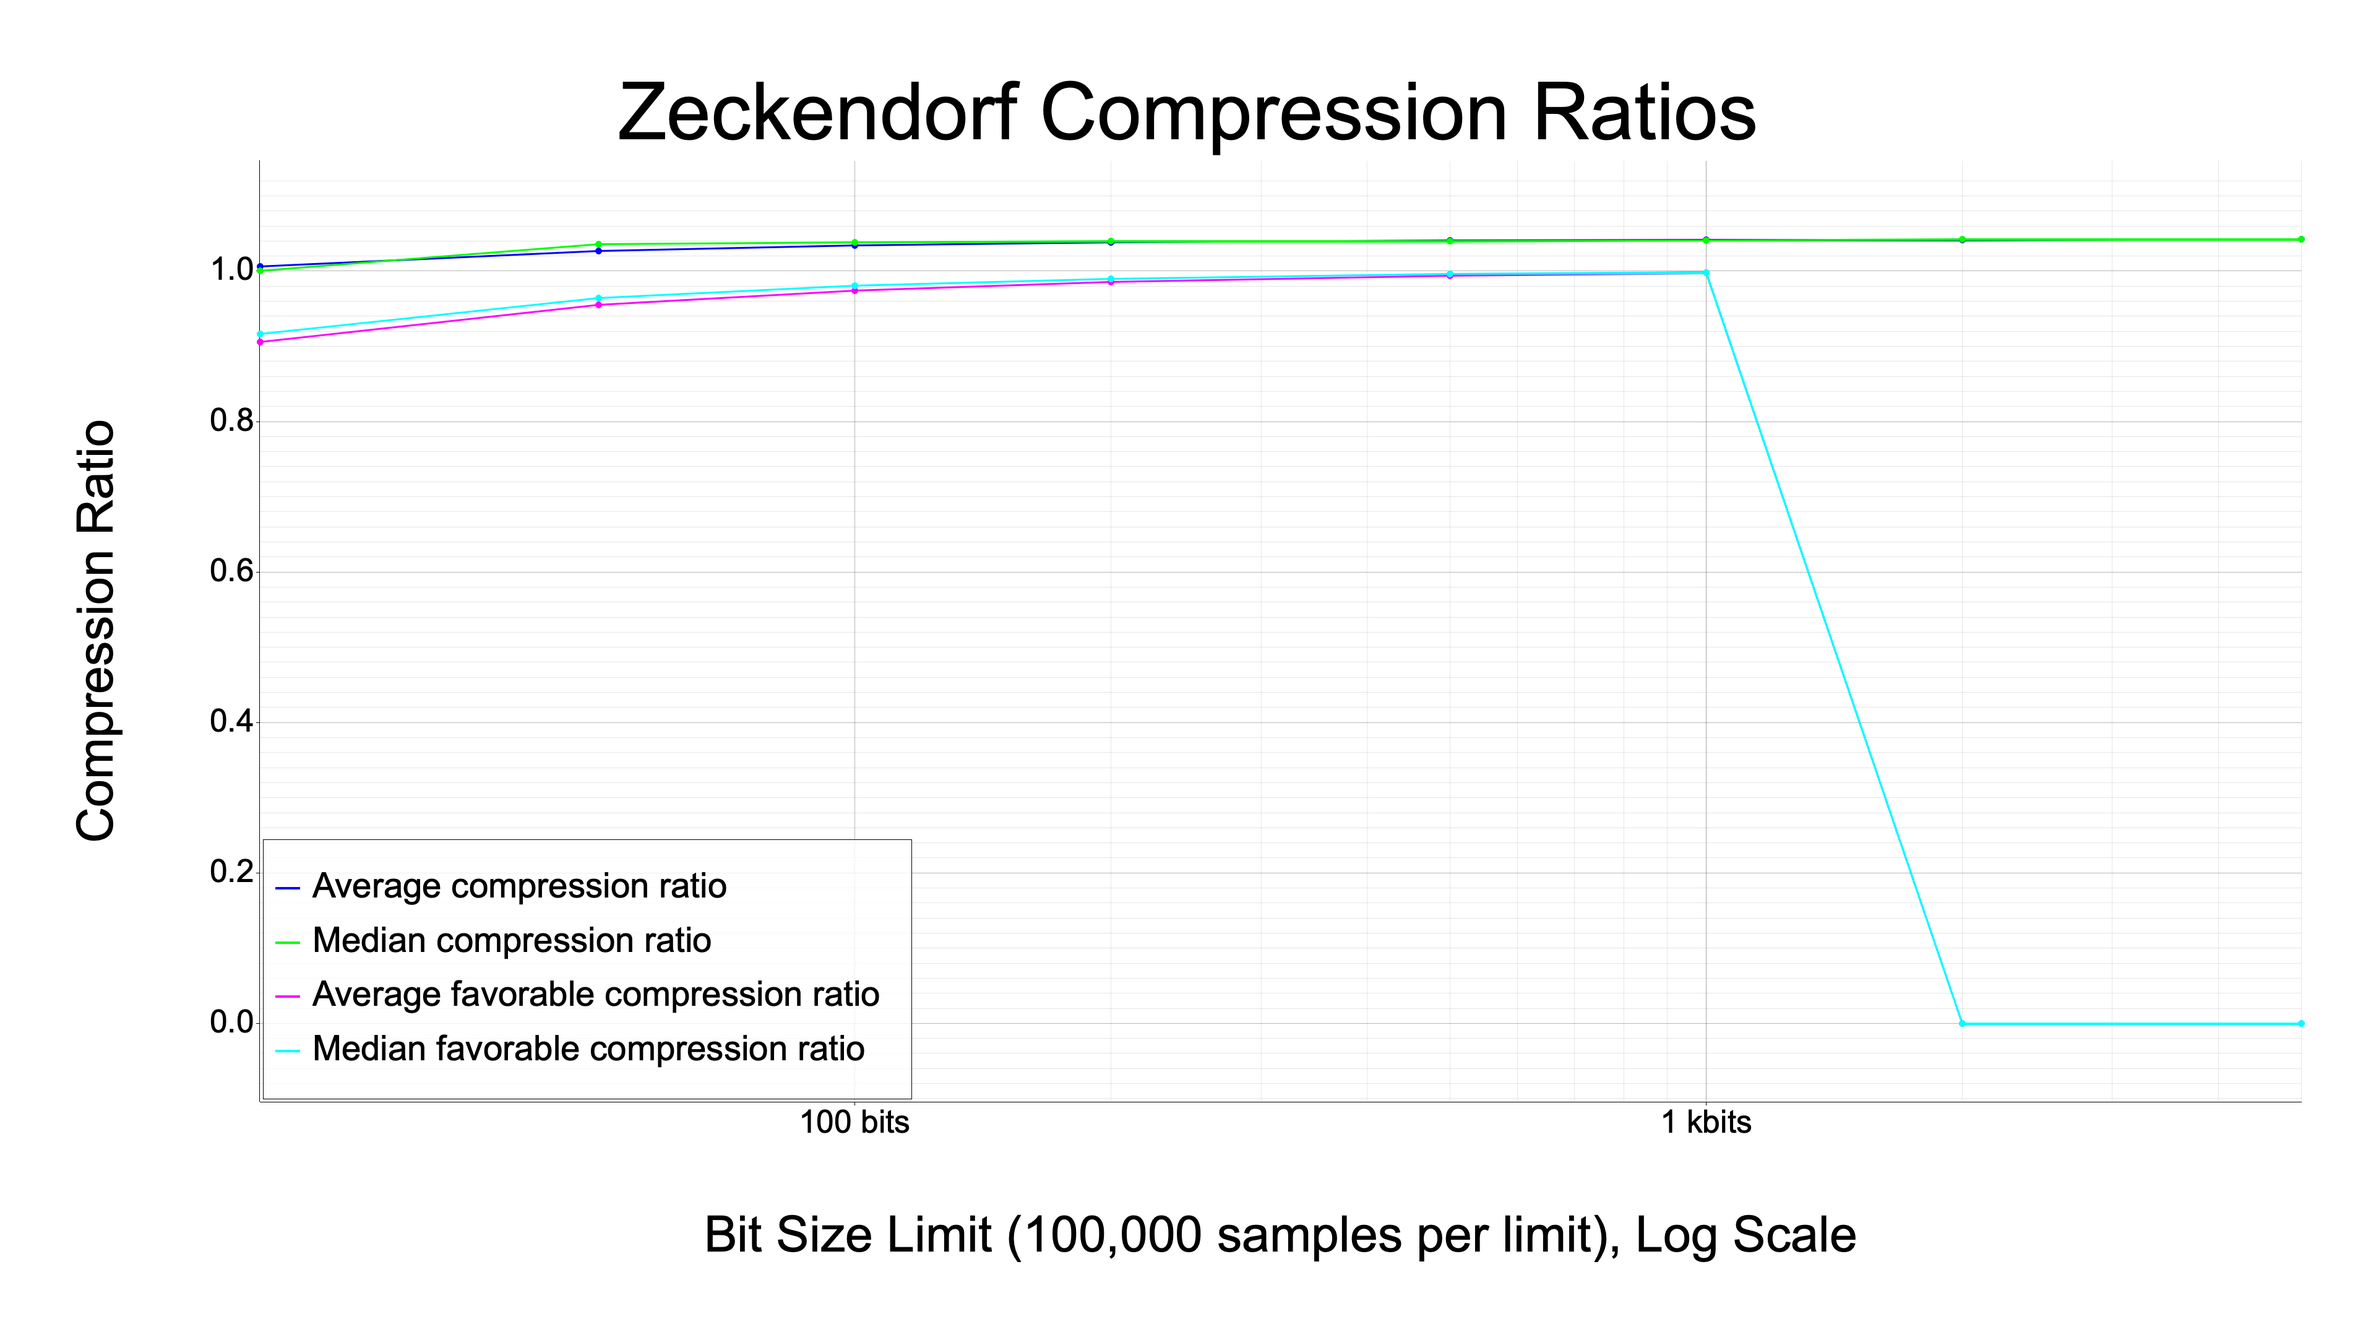
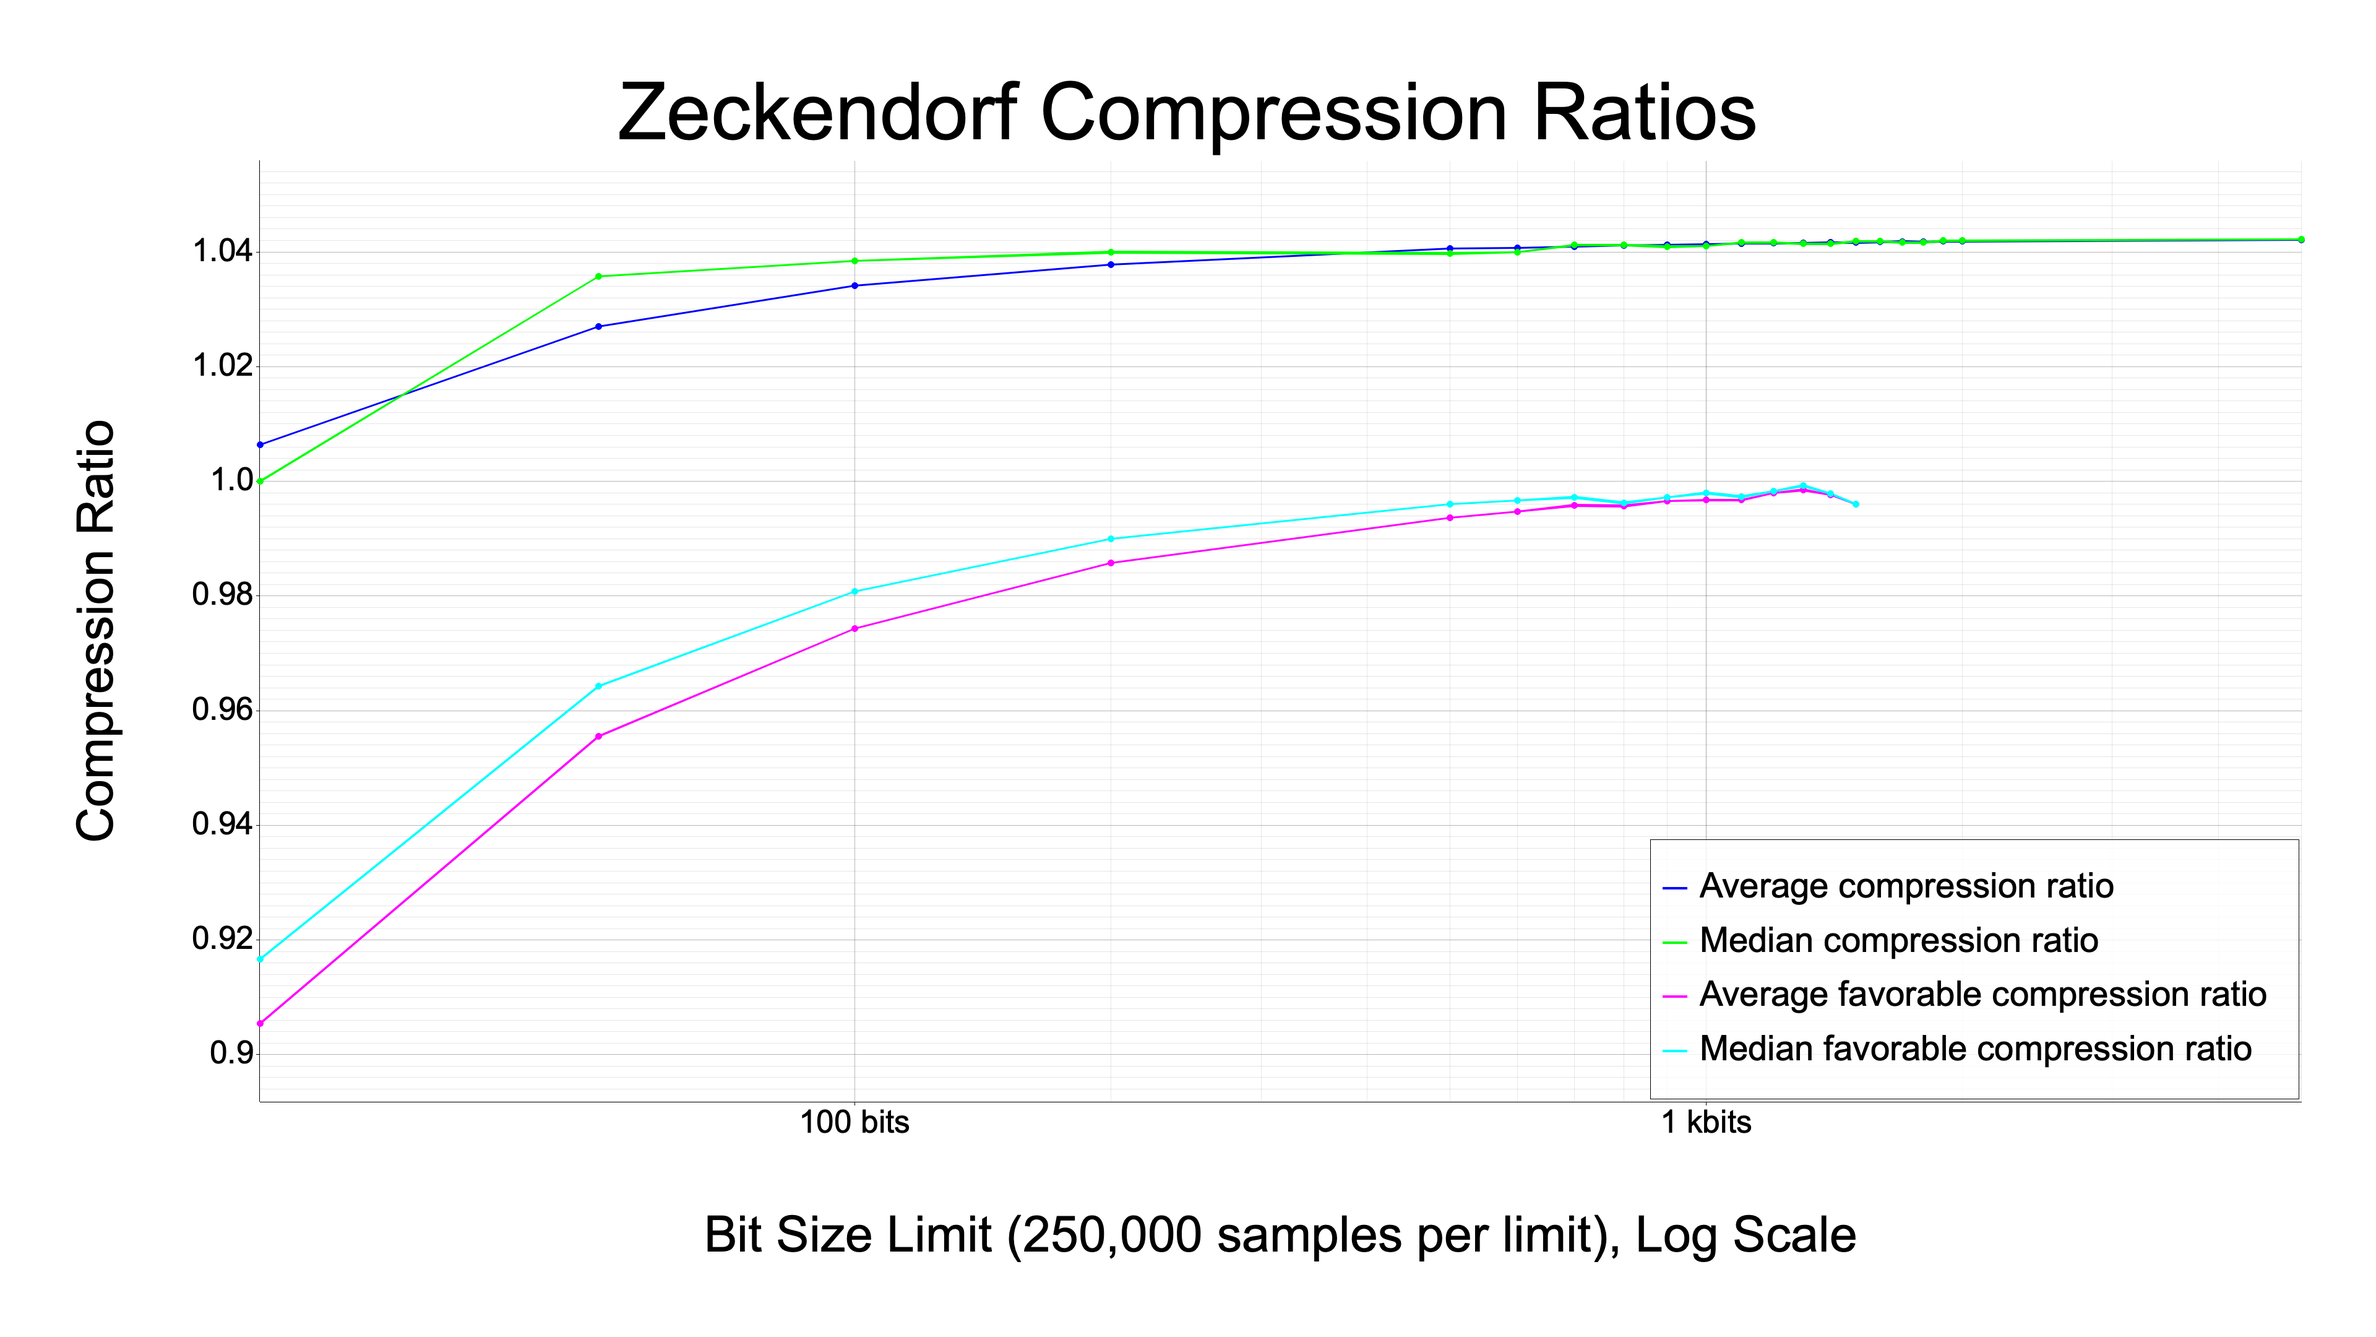
Update compression statistics and enhance data representation in `generate_statistics.rs`
- Modified `generate_statistics.rs` to expand bit size limits and increase sample sizes for improved accuracy in compression statistics.
- Updated the structure of `CompressionStats` to use optional fields for better handling of missing data.
- Added a debug function to investigate compression behavior at 2000 bits, providing detailed insights into sample statistics.
- Regenerated CSV files to reflect the latest statistics, including new entries for bit sizes up to 2000 and adjustments to existing data.
- Updated plots to accommodate changes in data structure and ensure accurate visualization of compression ratios and favorable percentages.

Changed region(s): [[0.0938, 0.1551, 0.9688, 0.8065], [0.4062, 0.6514, 0.9688, 0.8065], [0.4375, 0.8995, 0.4688, 0.9306]]

diff --git a/src/bin/generate_statistics.rs b/src/bin/generate_statistics.rs
@@ -37,10 +37,16 @@ const INPUT_LIMITS: [u64; 5] = [10, 100, 1_000, 10_000, 100_000];
 // const INPUT_LIMITS: [u64; 8] = [10, 100, 1_000, 10_000, 100_000, 1_000_000, 10_000_000, 100_000_000];
 
 // Sampled statistics configuration
-// Time taken to generate sampled statistics: 16.027274541s
-// FIXME: seems to break at 2000 bits
-const BIT_SIZE_LIMITS: [u64; 8] = [20, 50, 100, 200, 500, 1_000, 2_000, 5_000];
-const SAMPLES_PER_BIT_SIZE: u64 = 100_000;
+// The odds of compression being favorable starts to decrease significantly at around 1000 bits.
+// I added more samplings around 1000 bits to get a more accurate picture of the decrease.
+// At 1500 bits, the odds of compression being favorable is around 100 / 250,000 samples or 0.04%.
+// At and after 1600 bits, there were no favorable samples out of 250,000 samples.
+// Time taken to generate sampled statistics: 95.059394875s
+const BIT_SIZE_LIMITS: [u64; 21] = [
+    20, 50, 100, 200, 500, 600, 700, 800, 900, 1_000, 1_100, 1_200, 1_300, 1_400, 1_500, 1_600,
+    1_700, 1_800, 1_900, 2_000, 5_000,
+];
+const SAMPLES_PER_BIT_SIZE: u64 = 250_000;
 
 // Seed for the random number generator to ensure reproducible results
 const RNG_SEED: u64 = 42;
@@ -51,14 +57,16 @@ struct CompressionStats {
     favorable_pct: f64,
     average_pct: f64,
     median_pct: f64,
-    best_compressed_input: Option<u64>,
-    best_compression_amount: f64,
-    average_favorable_pct: f64,
-    median_favorable_pct: f64,
+    maybe_best_compressed_input: Option<u64>,
+    maybe_best_compression_amount: Option<f64>,
+    maybe_average_favorable_pct: Option<f64>,
+    maybe_median_favorable_pct: Option<f64>,
 }
 
 fn main() {
     let start_time = Instant::now();
+
+    // debug_2000_bits_case();
 
     generate_bit_limit_stats();
     generate_sampled_bit_limit_stats();
@@ -82,12 +90,15 @@ fn generate_stats_csv(stats: &[CompressionStats], csv_header: &str) -> String {
             stat.favorable_pct,
             stat.average_pct,
             stat.median_pct,
-            stat.best_compression_amount,
-            stat.best_compressed_input
+            stat.maybe_best_compression_amount
+                .map_or("None".to_string(), |f| f.to_string()),
+            stat.maybe_best_compressed_input
                 .map(|input| input.to_string())
                 .unwrap_or_else(|| "".to_string()),
-            stat.average_favorable_pct,
-            stat.median_favorable_pct
+            stat.maybe_average_favorable_pct
+                .map_or("None".to_string(), |f| f.to_string()),
+            stat.maybe_median_favorable_pct
+                .map_or("None".to_string(), |f| f.to_string())
         );
         println!("{}", line);
         output.push_str(&line);
@@ -218,10 +229,10 @@ fn gather_stats_for_limit(limit: u64) -> CompressionStats {
             favorable_pct: 0.0,
             average_pct: 0.0,
             median_pct: 0.0,
-            best_compression_amount: 0.0,
-            best_compressed_input: None,
-            average_favorable_pct: 0.0,
-            median_favorable_pct: 0.0,
+            maybe_best_compression_amount: None,
+            maybe_best_compressed_input: None,
+            maybe_average_favorable_pct: None,
+            maybe_median_favorable_pct: None,
         };
     }
 
@@ -247,24 +258,19 @@ fn gather_stats_for_limit(limit: u64) -> CompressionStats {
         .filter(|ratio| *ratio < 1.0)
         .collect();
 
-    let average_favorable_pct = if favorable_amounts.is_empty() {
-        0.0
+    let maybe_average_favorable_pct = if favorable_amounts.is_empty() {
+        None
     } else {
-        favorable_amounts.iter().sum::<f64>() / favorable_amounts.len() as f64
+        Some(favorable_amounts.iter().sum::<f64>() / favorable_amounts.len() as f64)
     };
 
-    let maybe_favorable_median = median(&mut favorable_amounts);
-    let median_favorable_pct = if let Some(value) = maybe_favorable_median {
-        value
-    } else {
-        0.0
-    };
+    let maybe_median_favorable_pct = median(&mut favorable_amounts);
 
-    let (best_compressed_input, best_compression_amount) =
+    let (maybe_best_compressed_input, maybe_best_compression_amount) =
         if let Some((best_value_input, best_compression_amount)) = maybe_best_value_amount_pair {
-            (Some(best_value_input), best_compression_amount)
+            (Some(best_value_input), Some(best_compression_amount))
         } else {
-            (None, 0.0)
+            (None, None)
         };
 
     let end_time = Instant::now();
@@ -279,10 +285,10 @@ fn gather_stats_for_limit(limit: u64) -> CompressionStats {
         favorable_pct,
         average_pct,
         median_pct,
-        best_compressed_input,
-        best_compression_amount,
-        average_favorable_pct,
-        median_favorable_pct,
+        maybe_best_compressed_input,
+        maybe_best_compression_amount,
+        maybe_average_favorable_pct,
+        maybe_median_favorable_pct,
     }
 }
 
@@ -340,6 +346,100 @@ fn generate_random_bytes_of_roughly_bit_size(bit_size: u64, rng: &mut StdRng) ->
     bytes
 }
 
+/// Debug function to investigate issues with the 2000 bits case.
+/// This function will:
+/// 1. Generate multiple samples at exactly 2000 bits
+/// 2. Show detailed information about each sample including:
+///    - The generated bytes and their actual bit size
+///    - The compression ratio
+///    - Any anomalies or edge cases
+/// 3. Compare with nearby bit sizes (1999, 2000, 2001) to see if there's a threshold issue
+fn _debug_2000_bits_case() {
+    println!("\n=== Debugging 2000 bits case ===");
+
+    let test_bit_sizes = [1999, 2000, 2001];
+    let num_test_samples = 10;
+    let mut rng = StdRng::seed_from_u64(RNG_SEED);
+
+    for &bit_size in &test_bit_sizes {
+        println!("\n--- Testing bit size: {} ---", bit_size);
+
+        let mut sample_stats = Vec::new();
+
+        for sample_idx in 0..num_test_samples {
+            let random_data = generate_random_bytes_of_roughly_bit_size(bit_size, &mut rng);
+
+            // Calculate actual bit size from bytes
+            let bytes_bit_size = random_data.len() * 8;
+
+            // Calculate actual bit size if interpreted as BigUint (leading zeros might be stripped)
+            let maybe_bigint = BigUint::from_bytes_be(&random_data);
+            let bigint_bit_size = maybe_bigint.bits();
+
+            // Get compression ratio
+            let maybe_compression_ratio = compression_amount_percent_bytes(&random_data);
+
+            // Show first few bytes for inspection
+            let preview_len = random_data.len().min(8);
+            let preview_bytes: Vec<u8> = random_data.iter().take(preview_len).copied().collect();
+
+            println!(
+                "Sample {}: bytes_len={}, bytes_bit_size={}, bigint_bit_size={}, preview_bytes={:?}, compression_ratio={:?}",
+                sample_idx + 1,
+                random_data.len(),
+                bytes_bit_size,
+                bigint_bit_size,
+                preview_bytes,
+                maybe_compression_ratio
+            );
+
+            if let Some(ratio) = maybe_compression_ratio {
+                sample_stats.push(ratio);
+
+                // Check for anomalies
+                if ratio > 10.0 || ratio < 0.01 {
+                    println!("  ⚠  ANOMALY: Extreme compression ratio detected!");
+                }
+                if bytes_bit_size != bigint_bit_size as usize {
+                    println!(
+                        "  ⚠  WARNING: Bit size mismatch! bytes_bit_size={}, bigint_bit_size={}",
+                        bytes_bit_size, bigint_bit_size
+                    );
+                }
+            } else {
+                println!("  ⚠  WARNING: Compression ratio is None (compression not possible)");
+            }
+        }
+
+        if !sample_stats.is_empty() {
+            let avg_ratio = sample_stats.iter().sum::<f64>() / sample_stats.len() as f64;
+            let min_ratio = sample_stats.iter().copied().fold(f64::INFINITY, f64::min);
+            let max_ratio = sample_stats
+                .iter()
+                .copied()
+                .fold(f64::NEG_INFINITY, f64::max);
+            let favorable_count = sample_stats.iter().filter(|&&r| r < 1.0).count();
+
+            println!(
+                "Summary for {} bits: avg_ratio={:.6}, min_ratio={:.6}, max_ratio={:.6}, favorable_count={}/{}",
+                bit_size,
+                avg_ratio,
+                min_ratio,
+                max_ratio,
+                favorable_count,
+                sample_stats.len()
+            );
+        }
+    }
+
+    // Also test the actual gather_sampled_stats function with a small sample size
+    println!("\n--- Testing gather_sampled_stats with 2000 bits (small sample) ---");
+    let test_stats = gather_sampled_stats(2000, 100);
+    println!("Result: {:?}", test_stats);
+
+    println!("\n=== End of 2000 bits debugging ===\n");
+}
+
 fn gather_sampled_stats(bit_size_limit: u64, num_samples: u64) -> CompressionStats {
     let start_time = Instant::now();
     let mut rng = StdRng::seed_from_u64(RNG_SEED);
@@ -368,10 +468,10 @@ fn gather_sampled_stats(bit_size_limit: u64, num_samples: u64) -> CompressionSta
             favorable_pct: 0.0,
             average_pct: 0.0,
             median_pct: 0.0,
-            best_compression_amount: 0.0,
-            best_compressed_input: None,
-            average_favorable_pct: 0.0,
-            median_favorable_pct: 0.0,
+            maybe_best_compression_amount: None,
+            maybe_best_compressed_input: None,
+            maybe_average_favorable_pct: None,
+            maybe_median_favorable_pct: None,
         };
     }
 
@@ -397,20 +497,13 @@ fn gather_sampled_stats(bit_size_limit: u64, num_samples: u64) -> CompressionSta
         .filter(|ratio| *ratio < 1.0)
         .collect();
 
-    let average_favorable_pct = if favorable_amounts.is_empty() {
-        0.0
+    let maybe_average_favorable_pct = if favorable_amounts.is_empty() {
+        None
     } else {
-        favorable_amounts.iter().sum::<f64>() / favorable_amounts.len() as f64
+        Some(favorable_amounts.iter().sum::<f64>() / favorable_amounts.len() as f64)
     };
 
-    let maybe_favorable_median = median(&mut favorable_amounts);
-    let median_favorable_pct = if let Some(value) = maybe_favorable_median {
-        value
-    } else {
-        0.0
-    };
-
-    let best_compression_amount = maybe_best_compression_amount.unwrap_or(0.0);
+    let maybe_median_favorable_pct = median(&mut favorable_amounts);
 
     let end_time = Instant::now();
     println!(
@@ -428,10 +521,10 @@ fn gather_sampled_stats(bit_size_limit: u64, num_samples: u64) -> CompressionSta
         favorable_pct,
         average_pct,
         median_pct,
-        best_compressed_input: None,
-        best_compression_amount,
-        average_favorable_pct,
-        median_favorable_pct,
+        maybe_best_compressed_input: None,
+        maybe_best_compression_amount,
+        maybe_average_favorable_pct,
+        maybe_median_favorable_pct,
     }
 }
 
@@ -488,13 +581,16 @@ fn plot_compression_ratios(
         min_y = min_y
             .min(stat.average_pct)
             .min(stat.median_pct)
-            .min(stat.average_favorable_pct)
-            .min(stat.median_favorable_pct);
+            .min(stat.maybe_average_favorable_pct.unwrap_or(f64::INFINITY))
+            .min(stat.maybe_median_favorable_pct.unwrap_or(f64::INFINITY));
         max_y = max_y
             .max(stat.average_pct)
             .max(stat.median_pct)
-            .max(stat.average_favorable_pct)
-            .max(stat.median_favorable_pct);
+            .max(
+                stat.maybe_average_favorable_pct
+                    .unwrap_or(f64::NEG_INFINITY),
+            )
+            .max(stat.maybe_median_favorable_pct.unwrap_or(f64::NEG_INFINITY));
     }
 
     // Add some padding
@@ -561,12 +657,18 @@ fn plot_compression_ratios(
 
     let average_favorable_pct_data: Vec<(f64, f64)> = stats
         .iter()
-        .map(|s| (s.limit as f64, s.average_favorable_pct))
+        .map_while(|s| {
+            s.maybe_average_favorable_pct
+                .map(|average_favorable_pct| (s.limit as f64, average_favorable_pct))
+        })
         .collect();
 
     let median_favorable_pct_data: Vec<(f64, f64)> = stats
         .iter()
-        .map(|s| (s.limit as f64, s.median_favorable_pct))
+        .map_while(|s| {
+            s.maybe_median_favorable_pct
+                .map(|median_favorable_pct| (s.limit as f64, median_favorable_pct))
+        })
         .collect();
 
     const STROKE_WIDTH: u32 = 3;
@@ -833,13 +935,16 @@ fn plot_sampled_compression_ratios(
         min_y = min_y
             .min(stat.average_pct)
             .min(stat.median_pct)
-            .min(stat.average_favorable_pct)
-            .min(stat.median_favorable_pct);
+            .min(stat.maybe_average_favorable_pct.unwrap_or(f64::INFINITY))
+            .min(stat.maybe_median_favorable_pct.unwrap_or(f64::INFINITY));
         max_y = max_y
             .max(stat.average_pct)
             .max(stat.median_pct)
-            .max(stat.average_favorable_pct)
-            .max(stat.median_favorable_pct);
+            .max(
+                stat.maybe_average_favorable_pct
+                    .unwrap_or(f64::NEG_INFINITY),
+            )
+            .max(stat.maybe_median_favorable_pct.unwrap_or(f64::NEG_INFINITY));
     }
 
     // Add some padding
@@ -899,12 +1004,18 @@ fn plot_sampled_compression_ratios(
 
     let average_favorable_pct_data: Vec<(f64, f64)> = stats
         .iter()
-        .map(|s| (s.limit as f64, s.average_favorable_pct))
+        .map_while(|stat| {
+            stat.maybe_average_favorable_pct
+                .map(|average_favorable_pct| (stat.limit as f64, average_favorable_pct))
+        })
         .collect();
 
     let median_favorable_pct_data: Vec<(f64, f64)> = stats
         .iter()
-        .map(|s| (s.limit as f64, s.median_favorable_pct))
+        .map_while(|stat| {
+            stat.maybe_median_favorable_pct
+                .map(|median_favorable_pct| (stat.limit as f64, median_favorable_pct))
+        })
         .collect();
 
     const STROKE_WIDTH: u32 = 3;
@@ -1005,7 +1116,7 @@ fn plot_sampled_compression_ratios(
 
     chart
         .configure_series_labels()
-        .position(SeriesLabelPosition::LowerLeft)
+        .position(SeriesLabelPosition::LowerRight)
         .margin(LEGEND_MARGIN)
         .label_font(("sans-serif", LEGEND_FONT_SIZE).into_font())
         .background_style(&WHITE.mix(0.8))
